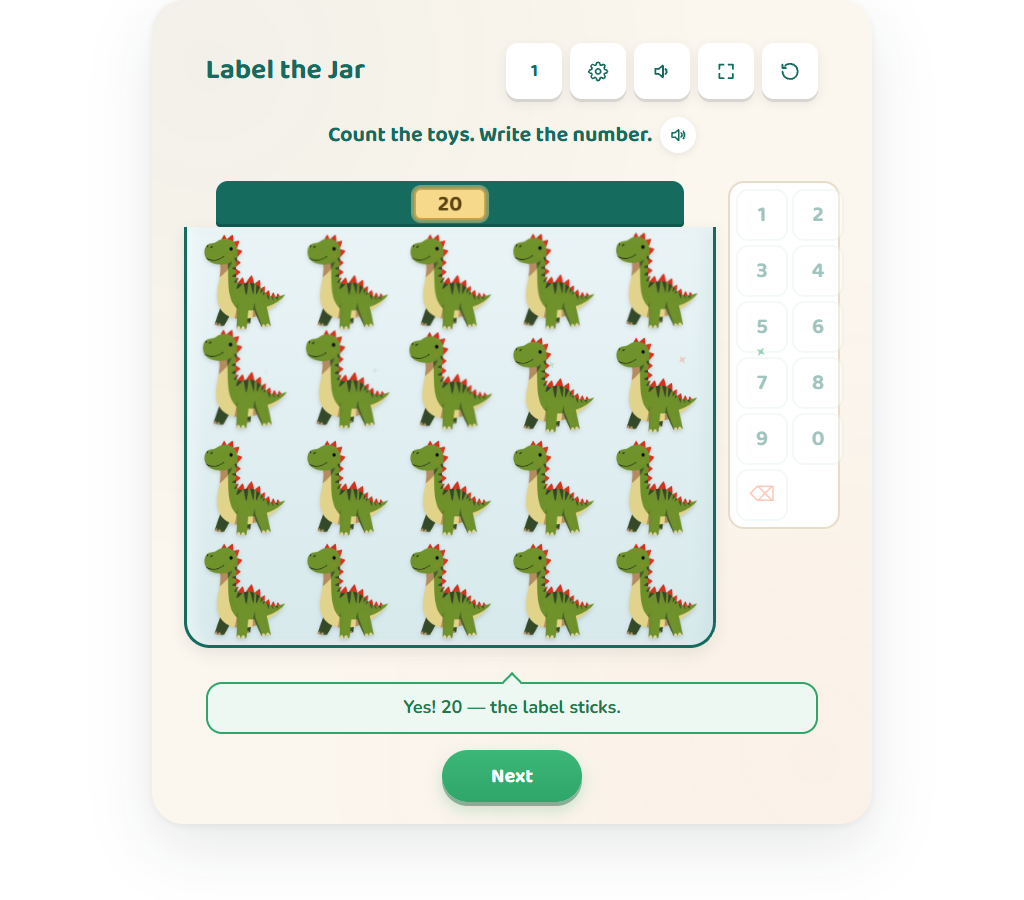
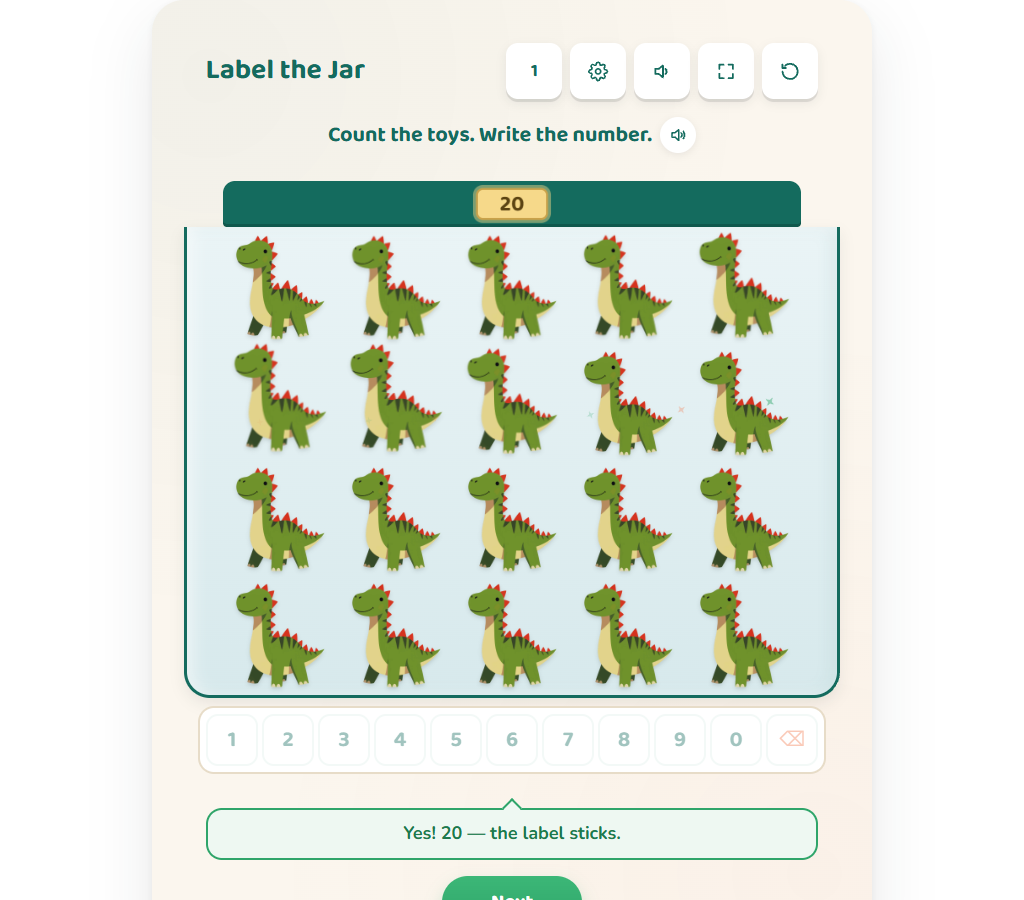
[FIX][ACTIVITIES] #7 Jar Label — the number keys stand in ONE aligned row under a full-width jar from 560 px (1 2 3 … 9 0 ⌫) instead of a two-column pad beside it (operator 2026-10-16: 'the numbers are not aligned'); the desktop cell is capped at 112 so a jar of twenty plus the key row fits the 1366

Changed region(s): [[0.1875, 0.1867, 0.8438, 0.9333], [0.4062, 0.9644, 0.5938, 1.0]]

diff --git a/mini tools/jar-label-activity.js b/mini tools/jar-label-activity.js
@@ -182,15 +182,15 @@ var JarLabelActivity = {
   },
   _layout: function () {
     var L = this._L = JarLabelCore.layout(this._width());
-    this._wrap.classList.toggle('is-side', L.mode === 'side');
+    this._wrap.classList.toggle('is-row', L.mode === 'row');
     this._wrap.classList.toggle('is-stack', L.mode === 'stack');
     this._wrap.style.setProperty('--jl-cell', L.cell + 'px');
     this._wrap.style.setProperty('--jl-pic', L.pic + 'px');
     this._wrap.style.setProperty('--jl-gap', L.gap + 'px');
     this._wrap.style.setProperty('--jl-jarpad', L.jarPad + 'px');
-    this._wrap.style.setProperty('--jl-padw', L.padW + 'px');
+    this._wrap.style.setProperty('--jl-key', L.key + 'px');
     this._wrap.style.setProperty('--jl-cols', String(L.cols));
-    if (L.mode === 'side') { this._padOpen = false; this._unwatchOutside(); }
+    if (L.mode === 'row') { this._padOpen = false; this._unwatchOutside(); }
   },
   _watchWidth: function () {
     var self = this;
@@ -274,8 +274,8 @@ var JarLabelActivity = {
       else if (c.slip === 'fillMore') { nk = 'noteNeed'; args = { k: c.k }; }
       else if (c.slip === 'fillFewer') { nk = 'noteOver'; args = { k: c.k }; }
     }
-    /* the standing note only where the stage has room for it (beside the pad); a phone keeps its fold for the jar */
-    if (!nk && !st.done && L.mode === 'side') nk = count ? 'noteCount' : 'noteFill';
+    /* the standing note only where the stage has room for it (a wide stage); a phone keeps its fold for the jar */
+    if (!nk && !st.done && L.mode === 'row') nk = count ? 'noteCount' : 'noteFill';
     this._note.textContent = nk ? interp(t(nk), args) : '';
     this._note.classList.toggle('is-slip', !!(c && !c.ok && nk && /^note(Left|Empty|Need|Over)$/.test(nk)));
     this._note.hidden = !nk;
@@ -393,11 +393,10 @@ function injectJarLabelCSS() {
   if (jlCssDone || typeof document === 'undefined') return;
   jlCssDone = true;
   var css = ''
-  + '.jl-wrap{width:100%;position:relative;display:flex;flex-direction:column;align-items:stretch;gap:6px;--jl-cell:96px;--jl-pic:92px;--jl-gap:4px;--jl-jarpad:8px;--jl-padw:112px;--jl-cols:5;--jl-glass:#EAF4F6;--jl-glass2:#D7E9EC;}'
-  + '.jl-main{display:flex;gap:12px;align-items:flex-start;width:100%;}'
+  + '.jl-wrap{width:100%;position:relative;display:flex;flex-direction:column;align-items:stretch;gap:6px;--jl-cell:96px;--jl-pic:92px;--jl-gap:4px;--jl-jarpad:8px;--jl-key:52px;--jl-cols:5;--jl-glass:#EAF4F6;--jl-glass2:#D7E9EC;}'
+  + '.jl-main{display:flex;flex-direction:column;gap:8px;align-items:stretch;width:100%;}'
   /* the jar */
   + '.jl-jar{flex:1 1 auto;min-width:0;display:flex;flex-direction:column;align-items:stretch;}'
-  + '.jl-wrap.is-side .jl-jar{flex:0 0 calc(100% - 12px - var(--jl-padw));width:calc(100% - 12px - var(--jl-padw));}'
   + '.jl-lid{height:46px;box-sizing:border-box;margin:0 6%;border-radius:12px 12px 4px 4px;background:var(--lcs-structure);display:flex;align-items:center;justify-content:center;gap:8px;position:relative;box-shadow:inset 0 -3px 0 rgba(0,0,0,.18);}'
   + '.jl-label{min-width:72px;height:32px;box-sizing:border-box;padding:0 12px;border-radius:7px;background:#FFFDF6;border:2px solid var(--lcs-line);font-family:var(--lcs-font-display);font-weight:800;font-size:22px;line-height:28px;color:var(--lcs-ink);text-align:center;transition:background .25s,border-color .25s;}'
   + '.jl-label.is-empty::before{content:"";display:inline-block;width:22px;height:3px;border-radius:2px;background:var(--lcs-line);vertical-align:middle;}'
@@ -415,11 +414,13 @@ function injectJarLabelCSS() {
   + '.jl-cell.is-ticked .jl-mark{transform:scale(1);background:var(--lcs-good);} .jl-cell.is-ticked .jl-mark::after{content:"";position:absolute;left:6px;top:3px;width:5px;height:9px;border:solid #fff;border-width:0 2.5px 2.5px 0;transform:rotate(45deg);}'
   + '.jl-cell.is-over{box-shadow:inset 0 0 0 3px var(--lcs-accent);border-radius:14px;} .jl-cell.is-over .jl-mark{transform:scale(0);} .jl-cell.is-over .jl-toy{opacity:1;}'
   /* the pad */
-  + '.jl-pad{display:grid;grid-template-columns:repeat(2,52px);gap:4px;box-sizing:border-box;padding:6px;border-radius:16px;background:var(--lcs-surface);border:2px solid var(--lcs-line);flex:0 0 auto;width:var(--jl-padw);} .jl-pad[hidden]{display:none;}'
-  + '.jl-key{height:52px;border-radius:12px;border:2px solid var(--lcs-structure-soft);background:#fff;font-family:var(--lcs-font-display);font-weight:800;font-size:22px;color:var(--lcs-structure);cursor:pointer;touch-action:manipulation;display:grid;place-items:center;}'
+  /* the keys: one aligned row under the jar — 1 2 3 4 5 6 7 8 9 0 ⌫ */
+  + '.jl-pad{display:grid;grid-template-columns:repeat(11,var(--jl-key));gap:4px;justify-content:center;box-sizing:border-box;padding:6px;border-radius:16px;background:var(--lcs-surface);border:2px solid var(--lcs-line);margin:0 auto;} .jl-pad[hidden]{display:none;}'
+  + '.jl-key{height:var(--jl-key);border-radius:12px;border:2px solid var(--lcs-structure-soft);background:#fff;font-family:var(--lcs-font-display);font-weight:800;font-size:22px;color:var(--lcs-structure);cursor:pointer;touch-action:manipulation;display:grid;place-items:center;}'
   + '.jl-key:hover{background:var(--lcs-structure-soft);} .jl-key:disabled{opacity:.4;cursor:default;} .jl-key:focus-visible{outline:3px solid var(--lcs-structure);outline-offset:2px;}'
   + '.jl-key-erase{color:var(--lcs-accent);} .jl-key-done{grid-column:1 / -1;font-size:17px;background:var(--lcs-structure);color:#fff;border-color:var(--lcs-structure);} .jl-key-done[hidden]{display:none;}'
-  + '.jl-wrap.is-stack .jl-pad{position:absolute;left:50%;transform:translateX(-50%);bottom:0;z-index:6;grid-template-columns:repeat(3,56px);width:auto;box-shadow:0 10px 24px rgba(20,30,28,.22);}'
+  + '.jl-wrap.is-row .jl-key-done{display:none;}'
+  + '.jl-wrap.is-stack .jl-pad{position:absolute;left:50%;transform:translateX(-50%);bottom:0;z-index:6;grid-template-columns:repeat(3,56px);width:auto;margin:0;box-shadow:0 10px 24px rgba(20,30,28,.22);}'
   + '.jl-wrap.is-stack .jl-key{height:50px;}'
   /* the shelf */
   + '.jl-shelf{display:flex;gap:8px;justify-content:center;align-items:center;box-sizing:border-box;padding:8px 10px;border-radius:14px;background:var(--lcs-surface-2);border:2px solid var(--lcs-line);min-height:calc(var(--jl-shelfpic) + 20px);} .jl-shelf[hidden]{display:none;}'

diff --git a/scripts/local-test-jar-label.js b/scripts/local-test-jar-label.js
@@ -64,7 +64,7 @@ function serve() {
     const toys = cells.filter(c => c.classList.contains('is-toy'));
     const img = toys[0] && toys[0].querySelector('img');
     const ir = img ? img.getBoundingClientRect() : null;
-    const mode = document.querySelector('.jl-wrap').classList.contains('is-side') ? 'side' : 'stack';
+    const mode = document.querySelector('.jl-wrap').classList.contains('is-row') ? 'row' : 'stack';
     return { toys: toys.length, visibleToys: toys.filter(vis).length, marked: cells.filter(c => c.classList.contains('is-marked')).length, ticked: cells.filter(c => c.classList.contains('is-ticked')).length, over: cells.filter(c => c.classList.contains('is-over')).length, empty: cells.filter(c => c.classList.contains('is-place')).length,
       img: img ? { src: img.getAttribute('src'), alt: img.alt, w: ir.width, nat: img.naturalWidth } : null, label: document.querySelector('.jl-label').textContent, labelAria: document.querySelector('.jl-label').getAttribute('aria-label'), stuck: document.querySelector('.jl-label').classList.contains('is-stuck'), wrongLabel: document.querySelector('.jl-label').classList.contains('is-wrong'),
       padShown: !document.querySelector('.jl-pad').hidden, pencilShown: !document.querySelector('.jl-pencil').hidden, shelf: document.querySelector('.jl-shelf').hidden ? 0 : document.querySelectorAll('.jl-shelf-toy').length, note: document.querySelector('.jl-note').hidden ? null : document.querySelector('.jl-note').textContent, noteSlip: document.querySelector('.jl-note').classList.contains('is-slip'), mode, keysDisabled: [...document.querySelectorAll('.jl-key:not(.jl-key-erase):not(.jl-key-done)')].every(k => k.disabled), eraseDisabled: document.querySelector('.jl-key-erase').disabled };
@@ -104,7 +104,8 @@ function serve() {
       let st = await state(page), tag = `[${loc} ${R.id}]`, v = await view(page);
       is(st.id === R.id && st.kind === R.kind && st.n === R.n && st.noun === R.noun && !st.done && st.typed === '' && st.marked === 0, `${tag} fresh state`);
       is((await promptText(page)) === interp(S(R.kind === 'fill' ? 'promptFill' : 'promptCount'), { n: R.n }), `${tag} prompt`);
-      is(v.mode === 'side' && v.padShown === (R.kind === 'count') && !v.pencilShown && v.shelf === (R.kind === 'fill' ? 6 : 0), `${tag} side layout: pad ${v.padShown}, shelf ${v.shelf}`);
+      is(v.mode === 'row' && v.padShown === (R.kind === 'count') && !v.pencilShown && v.shelf === (R.kind === 'fill' ? 6 : 0), `${tag} row layout: pad ${v.padShown}, shelf ${v.shelf}`);
+      if (R.kind === 'count') { const pk = await page.evaluate(() => { const jar = document.querySelector('.jl-jar').getBoundingClientRect(), pad = document.querySelector('.jl-pad').getBoundingClientRect(), ks = [...document.querySelectorAll('.jl-key')].filter(k => k.offsetParent !== null), keys = ks.map(k => k.getBoundingClientRect()); return { below: pad.top >= jar.bottom - 1, oneRow: new Set(keys.map(k => Math.round(k.top))).size === 1, order: ks.map(k => k.textContent).join(''), keyMin: Math.min(...keys.map(k => Math.min(k.width, k.height))) }; }); is(pk.below && pk.oneRow && pk.order === '1234567890⌫' && pk.keyMin >= 44, `${tag} eleven keys in one row under the jar, in order, ≥ 44 px (${pk.order}, ${pk.keyMin.toFixed(0)})`); }
       if (R.kind === 'count') {
         is(v.toys === R.n && v.visibleToys === R.n && v.empty === 0 && v.label === '' && v.labelAria === S('labelEmpty') && v.note === S('noteCount'), `${tag} ${R.n} toys in the jar, the label empty, noteCount (side mode)`);
         if (R.n) is(!!v.img && /^\/image-library-webp\/themes\/toys\//.test(v.img.src) && v.img.nat > 0 && v.img.w >= 96 && v.img.alt === label(R.noun, loc), `${tag} library toy ${R.noun} ≥ 96 px (${v.img && v.img.w.toFixed(0)}), alt "${v.img && v.img.alt}"`);
@@ -195,7 +196,7 @@ function serve() {
     is(m.overflow <= 2, `${tag} no overflow`);
     is(v.img && v.img.w >= (w >= 700 ? 96 : 64), `${tag} toy ${v.img && v.img.w.toFixed(0)} px`);
     is(m.checkBottom <= m.innerH + 1, `${tag} twenty toys: Check at ${m.checkBottom.toFixed(0)} within ${m.innerH}`);
-    if (L.mode === 'side') { is(!m.padHidden && m.keyMin >= 44, `${tag} the pad stands beside the jar, keys ≥ 44 (${m.keyMin.toFixed(0)})`); }
+    if (L.mode === 'row') { is(!m.padHidden && m.keyMin >= 44 && Math.abs(m.keyMin - L.key) <= 1, `${tag} the key row under the jar, keys ${m.keyMin.toFixed(0)} ≥ 44`); }
     else {
       is(m.padHidden && v.pencilShown, `${tag} the pad is folded away; the pencil shows`);
       await clickSel(page, '.jl-pencil'); const m2 = await page.evaluate(() => { const pad = document.querySelector('.jl-pad').getBoundingClientRect(), wrap = document.querySelector('.jl-wrap').getBoundingClientRect(), keys = [...document.querySelectorAll('.jl-key')].map(k => k.getBoundingClientRect()); return { inside: pad.left >= wrap.left - 1 && pad.right <= wrap.right + 1 && pad.bottom <= wrap.bottom + 1, keyMin: Math.min(...keys.map(k => Math.min(k.width, k.height))), shown: !document.querySelector('.jl-pad').hidden }; });

diff --git a/scripts/live-verify-jar-label.js b/scripts/live-verify-jar-label.js
@@ -42,7 +42,8 @@ const wait = (ms) => new Promise(r => setTimeout(r, ms));
       const tap = async (sel) => { await frame.evaluate((s) => { const el = document.querySelector(s); if (!el) throw new Error('no ' + s); el.scrollIntoView({ block: 'center' }); }, sel); await wait(80); const o = await off(); const c = await frame.evaluate((s) => { const r = document.querySelector(s).getBoundingClientRect(); return { x: r.left + r.width / 2, y: r.top + r.height / 2 }; }, sel); await page.mouse.click(o.x + c.x, o.y + c.y); await wait(90); };
       const force = async (i) => { await frame.evaluate((i) => { const t = window.JarLabelActivity; const order = [i]; for (let k = 0; k < t._pool.length; k++) if (k !== i) order.push(k); t._order = order; t._curPass = 0; window.LCS_reloadFirstTask(); }, i); await wait(600); };
       const state = () => frame.evaluate(() => { const s = window.JarLabelActivity.st; return { id: s.id, n: s.n, typed: s.typed, inJar: s.inJar, marked: s.marks.filter(Boolean).length, checked: s.checked ? s.checked.slip : null, done: s.done, mode: document.querySelector('.jl-wrap').classList.contains('is-side') ? 'side' : 'stack' }; });
-      const typeLabel = async (a) => { const st = await state(); if (st.mode === 'stack') await tap('.jl-pencil'); for (const d of String(a)) await tap(`.jl-key:nth-child(${d === '0' ? 10 : Number(d)})`); if (st.mode === 'stack') await tap('.jl-key-done'); };
+      /* on a phone the keys live in the floating pad: open it first, erase inside it, close it with Done */
+      const typeLabel = async (a) => { const st = await state(); if (st.mode === 'stack') await tap('.jl-pencil'); while ((await state()).typed !== '') await tap('.jl-key-erase'); for (const d of String(a)) await tap(`.jl-key:nth-child(${d === '0' ? 10 : Number(d)})`); if (st.mode === 'stack') await tap('.jl-key-done'); };
       await force(POOL.findIndex(r => r.kind === 'count' && r.n === 14));
       let st = await state();
       is(st.id === 'to20-count-14' && st.n === 14, `[${loc} @${w}] the jar of 14 (${st.mode})`);
@@ -53,11 +54,9 @@ const wait = (ms) => new Promise(r => setTimeout(r, ms));
       await typeLabel(41); await tap('.lcs-activity-check'); st = await state();
       const n1 = await frame.evaluate(() => ({ bubble: document.querySelector('.lcs-activity-bubble').textContent, cls: document.querySelector('.lcs-activity-bubble').className, wrong: document.querySelector('.jl-label').classList.contains('is-wrong') }));
       is(st.checked === 'reversed' && /tryagain/.test(n1.cls) && n1.wrong, `[${loc} @${w}] 41 on the jar of 14 → reversed ("${n1.bubble}")`);
-      for (let k = 0; k < 2; k++) await tap('.jl-key-erase');
       await typeLabel(12); await tap('.lcs-activity-check'); st = await state();
       const laid = await frame.evaluate(() => ({ ticked: document.querySelectorAll('.jl-cell.is-ticked').length, over: document.querySelectorAll('.jl-cell.is-over').length, note: document.querySelector('.jl-note').textContent }));
       is(st.checked === 'more' && laid.ticked === 12 && laid.over === 2 && /2/.test(laid.note), `[${loc} @${w}] 12 laid against the jar: 12 ticked, 2 left over ("${laid.note}")`);
-      for (let k = 0; k < 2; k++) await tap('.jl-key-erase');
       await typeLabel(14); await tap('.lcs-activity-check'); await wait(500); st = await state();
       const ok = await frame.evaluate(() => ({ cel: document.querySelector('.lcs-activity-prompt').classList.contains('celebrate'), txt: document.querySelector('.lcs-activity-bubble').textContent, stuck: document.querySelector('.jl-label').classList.contains('is-stuck'), next: !document.querySelector('.lcs-activity-next').hidden }));
       is(st.done && ok.cel && ok.stuck && ok.next, `[${loc} @${w}] 14 sticks → the round celebrates ("${ok.txt}")`);
@@ -65,8 +64,8 @@ const wait = (ms) => new Promise(r => setTimeout(r, ms));
       is(fit.frameH >= fit.cardH - 8 && fit.nextBottom <= fit.frameH + 1, `[${loc} @${w}] iframe grows with the card (iframe ${fit.frameH.toFixed(0)}, card ${fit.cardH.toFixed(0)}, Next bottom ${fit.nextBottom.toFixed(0)})`);
       await page.screenshot({ path: path.join(OUT, `live-${loc}-${w}-done.png`), fullPage: w < 500 });
       /* a fill round by real shelf taps */
-      await force(POOL.findIndex(r => r.kind === 'fill' && r.n === 7));
-      for (let i = 0; i < 7; i++) await tap('.jl-shelf-toy');
+      await force(POOL.findIndex(r => r.kind === 'fill' && r.n === 7)); await wait(400);
+      for (let i = 0; i < 7; i++) { await tap('.jl-shelf-toy'); await wait(60); }
       await tap('.lcs-activity-check'); await wait(400); st = await state();
       is(st.inJar === 7 && st.done && (await frame.evaluate(() => document.querySelector('.lcs-activity-prompt').classList.contains('celebrate'))), `[${loc} @${w}] seven dropped in by real taps → done`);
       await page.close();

diff --git a/scripts/verify-jar-label-core.js b/scripts/verify-jar-label-core.js
@@ -7,7 +7,7 @@
    pools and their coverage, the slip table (its own copy, agreed
    exhaustively 0..99 × 0..20), the typing rules, the marks, the shelf,
    Check and the places it lays, the layout floors — picture ≥ 96 px at
-   every desktop stage width 640…720 (≥ 72 at 560…639) and ≥ 64 px at 288…559 — and the
+   every desktop stage width 560…720 (the jar spans the width, keys in one row) and ≥ 64 px at 288…559 — and the
    320 × 640 budget: lid 44 + body for 20 toys ≤ 400 at a 288 px stage.
    ===================================================================== */
 'use strict';
@@ -114,10 +114,10 @@ for (const r of R20.concat(R10).filter(r => r.kind === 'fill')) {
 }
 
 /* 5. layout */
-for (let W = 560; W <= 720; W += 8) { const L = C.layout(W), floor = W >= 640 ? 96 : 72; is(L.mode === 'side' && L.cols === 5 && L.pic >= floor && L.padW >= 108 && L.jarW + 12 + L.padW === W && 5 * L.cell + 4 * L.gap <= L.jarW - 2 * L.jarPad, `side at W=${W}: picture ${L.pic} ≥ ${floor}, pad ${L.padW}`); }
+for (let W = 560; W <= 720; W += 8) { const L = C.layout(W); is(L.mode === 'row' && L.cols === 5 && L.pic >= 96 && L.key >= 44 && L.key <= 52 && 11 * L.key + 40 <= W && L.jarW === W && 5 * L.cell + 4 * L.gap <= L.jarW - 2 * L.jarPad, `row at W=${W}: picture ${L.pic} ≥ 96, keys ${L.key}`); }
 for (let W = 288; W <= 559; W += 7) { const L = C.layout(W); is(L.mode === 'stack' && L.cols === 4 && L.pic >= 64 && 4 * L.cell + 3 * L.gap <= W - 2 * L.jarPad, `stack at W=${W}: picture ${L.pic} ≥ 64`); }
 { const L = C.layout(288), body = C.rowsFor(20, 4) * L.cell + (C.rowsFor(20, 4) - 1) * L.gap + 2 * L.jarPad; is(44 + body <= 400, `320 × 640 budget: lid 44 + body ${body} for 20 toys ≤ 400`); }
-{ const L = C.layout(647), body = C.rowsFor(20, 5) * L.cell + 3 * L.gap + 2 * L.jarPad; is(body <= 440, `desktop: body ${body} for 20 toys ≤ 440 (fits 1366 × 900 with the chrome)`); }
+{ const L = C.layout(647), body = C.rowsFor(20, 5) * L.cell + 3 * L.gap + 2 * L.jarPad; is(46 + body + 8 + L.key <= 620, `desktop: lid 46 + body ${body} + keys ${L.key} for 20 toys ≤ 620 (fits 1366 × 900 with the chrome)`); }
 is(C.rowsFor(0, 5) === 1 && C.rowsFor(10, 5) === 2 && C.rowsFor(11, 5) === 3 && C.rowsFor(20, 4) === 5, 'rows: 0 → 1, 10 → 2, 11 → 3, 20/4 → 5');
 { const r = R20.find(x => x.n === 6), st = C.newState(r), L = C.layout(647), o = C.offset(st, 0, L); is((o.x !== 0 || o.y !== 0) && Math.abs(o.x) <= L.cell * C.JITTER + 1, `six toys sit loosely (offset ${o.x}, ${o.y})`); }
 { const r = R20.find(x => x.n === 14), st = C.newState(r), L = C.layout(647); is(C.offset(st, 0, L).x === 0 && C.offset(st, 0, L).y === 0, 'fourteen toys stand in straight rows'); }

diff --git a/scripts/mutate-jar-label.js b/scripts/mutate-jar-label.js
@@ -30,10 +30,11 @@ const MUTATIONS = [
   ['leftover count off',            "k: slip === 'more' ? st.n - a : slip === 'fewer' ? a - st.n : 0", "k: slip === 'more' ? st.n - a + 1 : slip === 'fewer' ? a - st.n : 0"],
   ['fill short named fewer',        "slip: d === 0 ? 'right' : d > 0 ? 'fillMore' : 'fillFewer'", "slip: d === 0 ? 'right' : d > 0 ? 'fillFewer' : 'fillMore'"],
   ['places lose the leftovers',     "out.push(i < Math.min(a, n) ? 'ticked' : (i < n ? 'leftover' : 'empty'));", "out.push(i < Math.min(a, n) ? 'ticked' : 'empty');"],
-  ['pictures shrink on desktop',    "return { mode: 'side', cols: 5, gap: gap, padW: padW, jarW: jarW, jarPad: pad, cell: cell, pic: cell - gap };", "return { mode: 'side', cols: 5, gap: gap, padW: padW, jarW: jarW, jarPad: pad, cell: cell, pic: cell - 10 };"],
+  ['pictures shrink on desktop',    "return { mode: 'row', cols: 5, gap: gap, padW: 0, key: key, jarW: W, jarPad: pad, cell: cell, pic: cell - gap };", "return { mode: 'row', cols: 5, gap: gap, padW: 0, key: key, jarW: W, jarPad: pad, cell: cell, pic: cell - 10 };"],
   ['five columns on a phone',       "var c = Math.floor((inner - 3 * g) / 4);\n    return { mode: 'stack', cols: 4,", "var c = Math.floor((inner - 4 * g) / 5);\n    return { mode: 'stack', cols: 5,"],
   ['a fat phone jar',               "var g = 2, jp = 6, inner = W - 2 * jp;", "var g = 2, jp = 16, inner = W - 2 * jp;"],
-  ['side pad too narrow',           "var padW = 112, gap = 2,", "var padW = 80, gap = 2,"],
+  ['desktop cell uncapped',         "var cell = Math.min(112, Math.floor((innerW - 4 * gap) / 5));", "var cell = Math.floor((innerW - 4 * gap) / 5);"],
+  ['keys below the tap floor',      "var key = Math.min(52, Math.floor((W - 10 * 4) / 11));", "var key = Math.min(40, Math.floor((W - 10 * 4) / 11));"],
   ['loose jar everywhere',          "if (shown(st) > LOOSE_MAX) return { x: 0, y: 0 };", "if (false) return { x: 0, y: 0 };"],
   ['no jitter at all',              "var JITTER = 0.07;", "var JITTER = 0;"]
 ];

diff --git a/mini tools/jar-label-core.js b/mini tools/jar-label-core.js
@@ -115,17 +115,19 @@
   }
 
   /* ---- layout ---- */
-  /* W = the stage content width. From 560: 5 columns, the pad beside the jar (two columns of keys) —
-     pictures reach 96 px from W = 640 (the live desktop stage is 647–672); below 560: 4 columns, the pad floating. Cell = floor((inner − (cols−1)·gap) / cols); picture = cell − gap. */
+  /* W = the stage content width. From 560 ('row'): the jar spans the width, 5 columns, and the eleven keys
+     stand in ONE ROW under it (1 2 3 … 9 0 ⌫ — the numbers aligned in order, operator 2026-10-16); below 560
+     ('stack'): 4 columns, the pad floating over the jar. Cell = floor((inner − (cols−1)·gap) / cols); picture = cell − gap. */
   function layout(W) {
     if (W >= 560) {
-      var padW = 112, gap = 2, jarW = W - 12 - padW, pad = 8, innerW = jarW - 2 * pad;
-      var cell = Math.floor((innerW - 4 * gap) / 5);
-      return { mode: 'side', cols: 5, gap: gap, padW: padW, jarW: jarW, jarPad: pad, cell: cell, pic: cell - gap };
+      var gap = 4, pad = 8, innerW = W - 2 * pad;
+      var cell = Math.min(112, Math.floor((innerW - 4 * gap) / 5));   /* capped so a jar of twenty + the key row fits 1366 × 900 */
+      var key = Math.min(52, Math.floor((W - 10 * 4) / 11));
+      return { mode: 'row', cols: 5, gap: gap, padW: 0, key: key, jarW: W, jarPad: pad, cell: cell, pic: cell - gap };
     }
     var g = 2, jp = 6, inner = W - 2 * jp;
     var c = Math.floor((inner - 3 * g) / 4);
-    return { mode: 'stack', cols: 4, gap: g, padW: 0, jarW: W, jarPad: jp, cell: c, pic: c - g };
+    return { mode: 'stack', cols: 4, gap: g, padW: 0, key: 50, jarW: W, jarPad: jp, cell: c, pic: c - g };
   }
   function rowsFor(n, cols) { return Math.max(1, Math.ceil(n / cols)); }
   /* a toy's offset inside its cell (loose up to ten, straight above) */

diff --git a/docs/activities-rebuild/007-jar-label.md b/docs/activities-rebuild/007-jar-label.md
@@ -12,7 +12,7 @@ Replaces `rivets-number-forge.numeral-album.k-cc-a-3` (a drawn raccoon, foil pac
 ## Apparatus
 
 - **The jar** (`.jl-jar`): a lid band (`.jl-lid`) carrying the label (`.jl-label`, the typed digits in print; a pencil button on phones opens the pad) and the glass body (`.jl-body`) with the toys in a grid — 5 columns from 560 px, 4 below; picture = cell − gap; ≤ 10 toys sit with a small seeded jitter (loose), 11–20 in straight rows. Marks (`.jl-mark`) toggle per toy. On Check the places appear (`.jl-place`): ticked for the first *a* toys, coral-ringed leftovers beyond *a*, dashed empty places beyond *n*.
-- **The pad** (`.jl-pad`): keys 1–9, 0, erase (≥ 44 px). From 560 px a two-column pad standing beside the jar; below 560 a floating pad over the lower jar, opened from the lid's pencil and closed by Done or a tap outside.
+- **The pad** (`.jl-pad`): keys 1–9, 0, erase (≥ 44 px). From 560 px one aligned row of eleven keys under the full-width jar (1 2 3 … 9 0 ⌫ — the operator's 2026-10-16 note "the numbers are not aligned" retired the two-column side pad); below 560 a floating pad over the lower jar, opened from the lid's pencil and closed by Done or a tap outside.
 - **The shelf** (`.jl-shelf`, fill rounds): a row of toys; tap one → it drops into the jar; tap a toy in the jar → it goes back.
 - **A note** (`.jl-note`) under the jar carrying the numerals the hint cannot ("3 left over", "2 empty places").
 - Settings drawer: Numbers (to 10 / to 20), Rounds (both / count & write / fill the jar).
@@ -25,7 +25,7 @@ Slip table (count rounds, a = written, n = in the jar): a = n → right · n = 0
 
 ## Layout
 
-Stacked shell; the stage itself is two columns from 560 px (jar + pad), one column below with the floating pad. No `vh`. Budget at 320 × 640: lid 48 + body (5 rows × 67 + 8 + 12) = 403 with no standing note on a phone (the note under the jar is shown beside the pad only; slip notes always) — measured Check bottom 623 of 640.
+Stacked shell; the jar spans the stage, the key row under it from 560 px, the floating pad below 560. No `vh`. Budget at 320 × 640: lid 48 + body (5 rows × 67 + 8 + 12) = 403 with no standing note on a phone (the note under the jar is shown beside the pad only; slip notes always) — measured Check bottom 623 of 640.
 
 ## Strings (×11, one reviewer)
 
